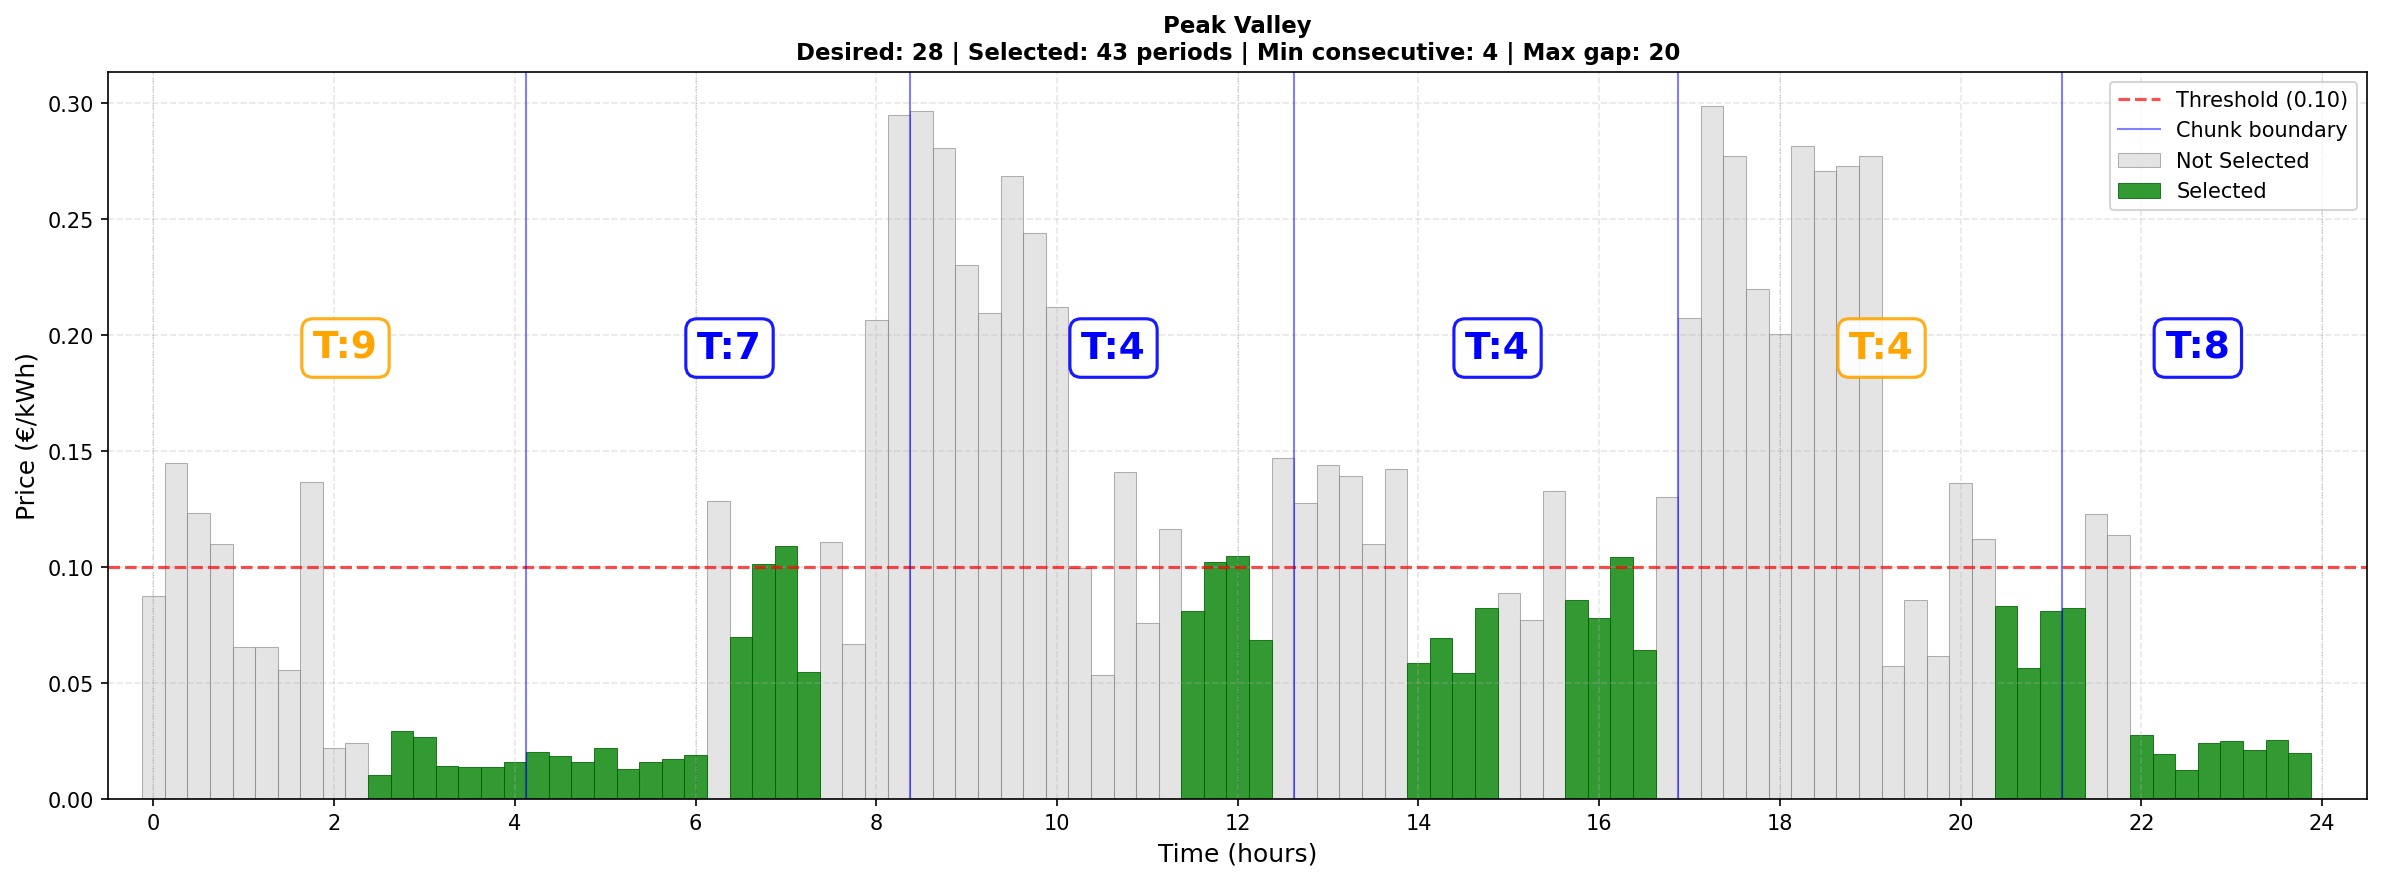
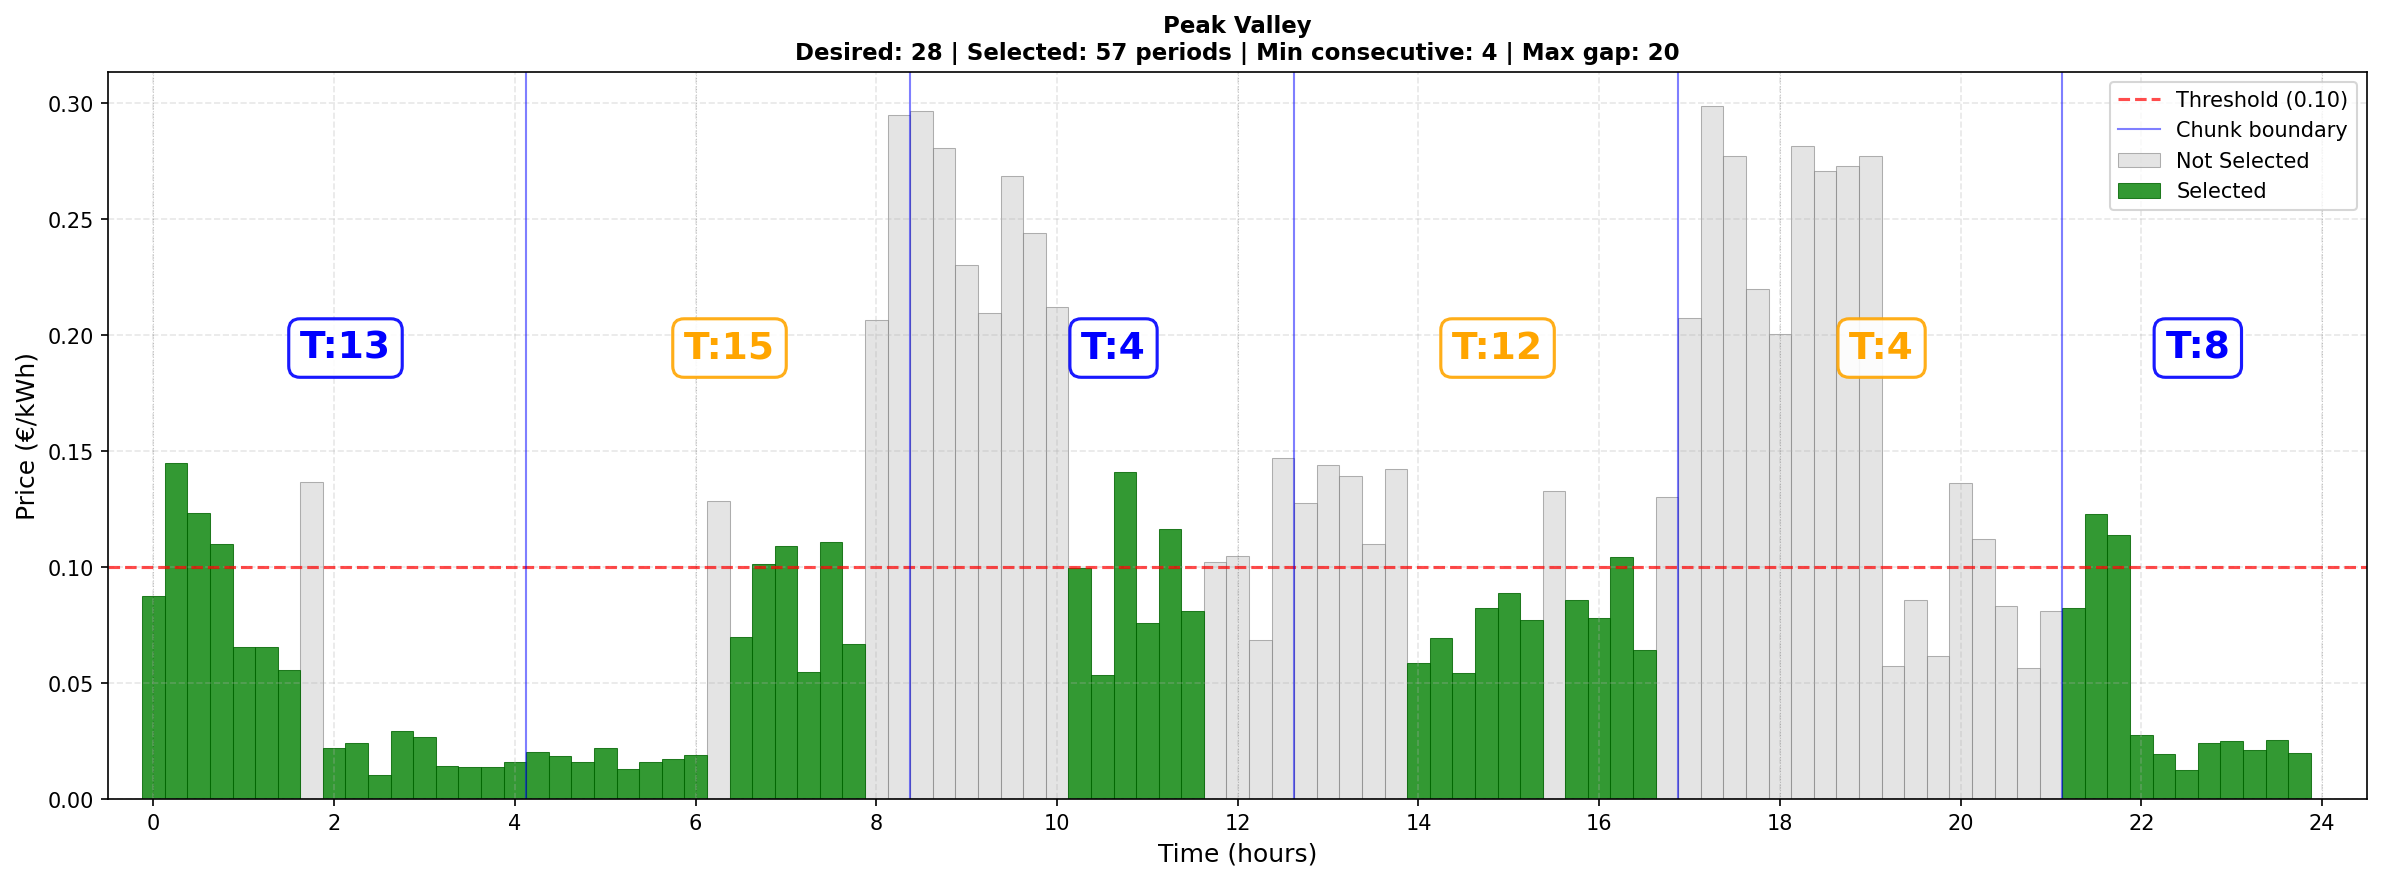
Revert to pure avg-cost scoring; add _try_add_cheap_items post-processing in main.py

diff --git a/tests/test_rust_vs_python.py b/tests/test_rust_vs_python.py
@@ -9,6 +9,7 @@ from decimal import Decimal
 
 import pytest
 
+from spot_planner import main as _main
 from spot_planner.brute_force import _is_valid_combination, get_cheapest_periods_python
 from spot_planner.main import get_cheapest_periods
 
@@ -543,6 +544,16 @@ class TestRustVsPython:
                 max_gap_between_periods,
                 max_gap_from_start,
             )
+            # Apply post-processing to python_result so it goes through the same
+            # full pipeline as rust_result (base algorithm + cheap-item augmentation).
+            python_result = _main._try_add_cheap_items(
+                python_result,
+                prices,
+                low_price_threshold,
+                min_consecutive_periods,
+                max_gap_between_periods,
+                max_gap_from_start,
+            )
 
             # Results should be identical
             assert rust_result == python_result, (
@@ -615,6 +626,15 @@ class TestRustVsPython:
                 prices,
                 low_price_threshold,
                 min_selections,
+                min_consecutive_periods,
+                max_gap_between_periods,
+                max_gap_from_start,
+            )
+            # Apply post-processing so python_result matches the full pipeline used by rust_result.
+            python_result = _main._try_add_cheap_items(
+                python_result,
+                prices,
+                low_price_threshold,
                 min_consecutive_periods,
                 max_gap_between_periods,
                 max_gap_from_start,
@@ -753,6 +773,15 @@ class TestRustVsPython:
             max_gap_between_periods,
             max_gap_from_start,
         )
+        # Apply post-processing so python_result matches the full pipeline used by rust_result.
+        python_result = _main._try_add_cheap_items(
+            python_result,
+            base_prices,
+            low_price_threshold,
+            min_consecutive_periods,
+            max_gap_between_periods,
+            max_gap_from_start,
+        )
 
         assert rust_result == python_result, (
             f"Performance test failed:\n"
@@ -780,6 +809,10 @@ class TestRustVsPython:
         )
         python_result = get_cheapest_periods_python(
             high_precision_prices, low_price_threshold, 2, 1, 1, 1
+        )
+        # Apply post-processing so python_result matches the full pipeline used by rust_result.
+        python_result = _main._try_add_cheap_items(
+            python_result, high_precision_prices, low_price_threshold, 1, 1, 1
         )
 
         assert rust_result == python_result, (
@@ -863,9 +896,10 @@ class TestRustVsPython:
             f"All below threshold: {all(prices[i] <= low_price_threshold for i in [0, 1, 2])}"
         )
 
-        # Verify the result has the correct length
-        assert len(rust_result) == min_selections, (
-            f"Result length {len(rust_result)} != expected {min_selections}"
+        # Verify the result has at least min_selections items
+        # (may be more since all valid cheap items are now included)
+        assert len(rust_result) >= min_selections, (
+            f"Result length {len(rust_result)} < expected minimum {min_selections}"
         )
 
         # Verify all selected items are valid indices

diff --git a/src/spot_planner/main.py b/src/spot_planner/main.py
@@ -1,4 +1,5 @@
 from decimal import Decimal
+from itertools import combinations as _combinations
 from typing import Sequence
 
 # Import two-phase algorithm which handles both short and long sequences
@@ -104,7 +105,7 @@ def get_cheapest_periods(
 
     # Use extended algorithm for longer sequences
     if len(prices) > 28:
-        return two_phase.get_cheapest_periods_extended(
+        result = two_phase.get_cheapest_periods_extended(
             prices,
             low_price_threshold,
             min_selections,
@@ -113,9 +114,13 @@ def get_cheapest_periods(
             max_gap_from_start,
             aggressive,
         )
+        return _try_add_cheap_items(
+            result, prices, low_price_threshold,
+            min_consecutive_periods, max_gap_between_periods, max_gap_from_start,
+        )
 
     # Use direct brute-force for shorter sequences (dispatched by two_phase module)
-    return two_phase._get_cheapest_periods(
+    result = two_phase._get_cheapest_periods(
         prices,
         low_price_threshold,
         min_selections,
@@ -124,3 +129,58 @@ def get_cheapest_periods(
         max_gap_from_start,
         aggressive,
     )
+    return _try_add_cheap_items(
+        result, prices, low_price_threshold,
+        min_consecutive_periods, max_gap_between_periods, max_gap_from_start,
+    )
+
+
+def _try_add_cheap_items(
+    result: list[int],
+    prices: Sequence[Decimal],
+    low_price_threshold: Decimal,
+    min_consecutive_periods: int,
+    max_gap_between_periods: int,
+    max_gap_from_start: int,
+) -> list[int]:
+    """Augment result by adding remaining below-threshold items without any bridge items.
+
+    After the base algorithm produces a valid selection, tries all combinations of the
+    remaining below-threshold items (those not in result with price <= threshold).
+    For each combination the full merged set is validated against all constraints —
+    no items above the threshold are added as bridges.
+
+    Returns the selection with the most items added; ties broken by lowest average cost.
+    """
+    n = len(prices)
+    result_set = set(result)
+    remaining_cheap = sorted(
+        i for i in range(n)
+        if i not in result_set and prices[i] <= low_price_threshold
+    )
+
+    if not remaining_cheap:
+        return result
+
+    # Try subsets from largest to smallest. Return as soon as the maximum valid
+    # size is found. Among same-size valid combos, prefer lowest average cost.
+    for size in range(len(remaining_cheap), 0, -1):
+        best_candidate: list[int] | None = None
+        best_avg = Decimal("inf")
+        for combo in _combinations(remaining_cheap, size):
+            candidate = sorted(result + list(combo))
+            if two_phase._validate_full_selection(
+                candidate,
+                n,
+                min_consecutive_periods,
+                max_gap_between_periods,
+                max_gap_from_start,
+            ):
+                avg = sum(prices[i] for i in candidate) / len(candidate)
+                if avg < best_avg:
+                    best_avg = avg
+                    best_candidate = candidate
+        if best_candidate is not None:
+            return best_candidate
+
+    return result

diff --git a/tests/corner_cases_test.py b/tests/corner_cases_test.py
@@ -268,9 +268,9 @@ class TestRealWorldCornerCases:
             max_gap_between_periods=1,
             max_gap_from_start=1,
         )
-        # Algorithm selects minimum number of cheapest items that meet constraints
-        assert len(result) == 3
-        assert result == [0, 1, 3]  # Cheapest 3 items: indices 0, 1, 3
+        # All 3 cheap items (indices 0, 1, 2; prices ≤ 10.0003) should be selected.
+        # Index 3 is also required to satisfy the end-gap constraint (max_gap=1).
+        assert result == [0, 1, 2, 3]
 
     def test_negative_prices(self):
         """Test with negative prices (realistic for electricity spot prices)."""
@@ -290,9 +290,9 @@ class TestRealWorldCornerCases:
             max_gap_between_periods=1,
             max_gap_from_start=1,
         )
-        # Algorithm selects minimum number of cheapest items that meet constraints
-        assert len(result) == 3
-        assert result == [0, 1, 3]  # Cheapest 3 items: indices 0, 1, 3
+        # All 3 cheap items (indices 0, 1, 2; prices ≤ 0.0) should be selected.
+        # Index 3 is also required to satisfy the end-gap constraint (max_gap=1).
+        assert result == [0, 1, 2, 3]
 
     def test_zero_prices(self):
         """Test with zero prices."""
@@ -402,9 +402,10 @@ class TestRealWorldCornerCases:
             max_gap_between_periods=1,
             max_gap_from_start=0,  # Must start from index 0
         )
-        # Algorithm selects minimum number of cheapest items that meet constraints
-        assert len(result) == 2
-        assert result == [0, 2]  # Cheapest 2 items starting from index 0
+        # Cheap items (≤25): indices 0 (10) and 1 (20). Both should be selected.
+        # Index 2 is also required to satisfy end-gap (max_gap=1, last cheap at 1,
+        # end gap would be 4-1-1=2 > 1 without it).
+        assert result == [0, 1, 2]
 
     def test_impossible_constraints(self):
         """Test with impossible constraints that should fail gracefully."""
@@ -451,9 +452,10 @@ class TestBoundaryConditions:
             max_gap_between_periods=1,
             max_gap_from_start=1,
         )
-        # Algorithm selects minimum number of cheapest items that meet constraints
-        assert len(result) == 2
-        assert result == [0, 2]  # Cheapest 2 items: indices 0 (10) and 2 (30)
+        # Cheap items (≤25): indices 0 (10) and 1 (20). Both should be selected.
+        # Index 2 is also required to satisfy end-gap (max_gap=1, without it
+        # end gap = 4-1-1 = 2 > 1).
+        assert result == [0, 1, 2]
 
     def test_min_consecutive_periods_equals_one(self):
         """Test with min_consecutive_periods = 1 (minimum valid value)."""

diff --git a/tests/main_test.py b/tests/main_test.py
@@ -27,12 +27,8 @@ def test_min_selections_is_same_as_for_low_price_threshold():
         max_gap_between_periods=3,
         max_gap_from_start=3,
     )
-    # Algorithm selects cheapest items below threshold
-    assert set(periods) == {
-        3,
-        4,
-        5,
-    }  # Indices 3, 4, 5 with prices 20, 10, 20 (all <= 20)
+    # All items at or below threshold (indices 3, 4, 5 with prices 20, 10, 20) are selected
+    assert set(periods) == {3, 4, 5}
 
 
 def test_min_selections_is_greater_than_for_low_price_threshold():
@@ -44,10 +40,11 @@ def test_min_selections_is_greater_than_for_low_price_threshold():
         max_gap_between_periods=3,
         max_gap_from_start=3,
     )
-    # Algorithm selects cheapest items below threshold
+    # Only index 4 (price 10) is at/below threshold; min_selections=3 requires adding
+    # the cheapest non-cheap items (3 and 5, price 20 each) to meet the floor.
     assert (
         periods == [3, 4, 5]
-    )  # Indices 3, 4, 5 with prices 20, 10, 20 (only index 4 <= 10, but algorithm selects cheapest 3)
+    )  # Indices 3, 4, 5 with prices 20, 10, 20
 
 
 def test_min_selections_is_less_than_for_min_consecutive_periods():
@@ -106,8 +103,9 @@ def test_max_prices_length_exactly_28():
         max_gap_between_periods=30,
         max_gap_from_start=30,
     )
-    # Algorithm selects minimum number of cheapest items
-    assert result == [0]  # Index 0 has the lowest price (0)
+    # All items with price <= 5 (indices 0-5) should be selected;
+    # they form a valid consecutive block within the gap constraints.
+    assert result == list(range(6))
 
 
 @pytest.mark.parametrize(

diff --git a/src/spot_planner/two_phase.py b/src/spot_planner/two_phase.py
@@ -457,7 +457,7 @@ def _find_best_chunk_selection_with_lookahead(
 
     # Pick the best candidate based on mode
     if aggressive:
-        # Aggressive mode: lowest average cost
+        # Aggressive mode: use average cost
         best_selection, _ = min(candidates, key=lambda x: x[1])
     else:
         # Conservative mode: most cheap items, then lowest total cost
@@ -1310,7 +1310,15 @@ def get_cheapest_periods_extended(
             # Can't select more than what's available
             remaining_target = min(remaining_target, len(remaining_prices))
 
-            if len(remaining_prices) > 0 and remaining_target > 0:
+            if remaining_target > 0 and remaining_target < min_consecutive_periods:
+                # The remaining portion is too small to start a new consecutive block.
+                # Select all remaining items to extend the forced block from the
+                # previous chunk into a single valid run.
+                remaining_selected = list(range(len(remaining_prices)))
+                chunk_selected = forced_selections + [
+                    i + remaining_start for i in remaining_selected
+                ]
+            elif len(remaining_prices) > 0 and remaining_target > 0:
                 # Use look-ahead for the remaining portion
                 remaining_selected = _find_best_chunk_selection_with_lookahead(
                     remaining_prices,

diff --git a/tests/real_price_test.py b/tests/real_price_test.py
@@ -138,16 +138,25 @@ PRICES_2025_10_02 = [
 
 
 def test_2025_10_02():
+    prices = [Decimal(price) for price in PRICES_2025_10_02]
+    threshold = Decimal("8.761")
     periods = get_cheapest_periods(
-        prices=[Decimal(price) for price in PRICES_2025_10_02],
-        low_price_threshold=Decimal("8.761"),
+        prices=prices,
+        low_price_threshold=threshold,
         min_selections=5,
         min_consecutive_periods=1,
         max_gap_between_periods=5,
         max_gap_from_start=5,
     )
-    # Algorithm selects cheapest items that meet constraints
-    assert periods == [4, 10, 15, 21, 22, 23]  # Cheapest 6 items below threshold
+    # All cheap items (indices 0, 3, 4, 5, 20, 21, 22, 23) should be selected.
+    # Bridges are needed to keep the gap ≤ 5 between the first cheap cluster (0, 3-5)
+    # and the second cheap cluster (20-23); the exact bridge indices may vary.
+    cheap_in_data = {i for i, p in enumerate(prices) if p <= threshold}
+    assert cheap_in_data.issubset(set(periods)), (
+        f"Not all cheap items selected. Missing: {cheap_in_data - set(periods)}, "
+        f"Result: {periods}"
+    )
+    assert len(periods) >= 5
 
 
 PRICES_2026_02_15_HANG_TEST = [

diff --git a/src/lib.rs b/src/lib.rs
@@ -251,7 +251,8 @@ fn get_cheapest_periods(
 
     // Choose algorithm based on aggressive parameter
     if aggressive {
-        // Aggressive mode: minimize average cost (current behavior)
+        // Aggressive mode: include cheap items when avg stays at/below threshold;
+        // fall back to minimising average cost if no such selection exists.
         get_cheapest_periods_aggressive(
             &price_items,
             &cheap_items,
@@ -346,7 +347,6 @@ fn get_cheapest_periods_aggressive(
                     min_consecutive_periods,
                     price_items.len(),
                 ) {
-                    // Calculate average cost of this merged result
                     let merged_cost: Decimal =
                         merged_indices.iter().map(|&i| price_items[i].1).sum();
                     let merged_avg_cost = merged_cost / Decimal::from(merged_indices.len());
